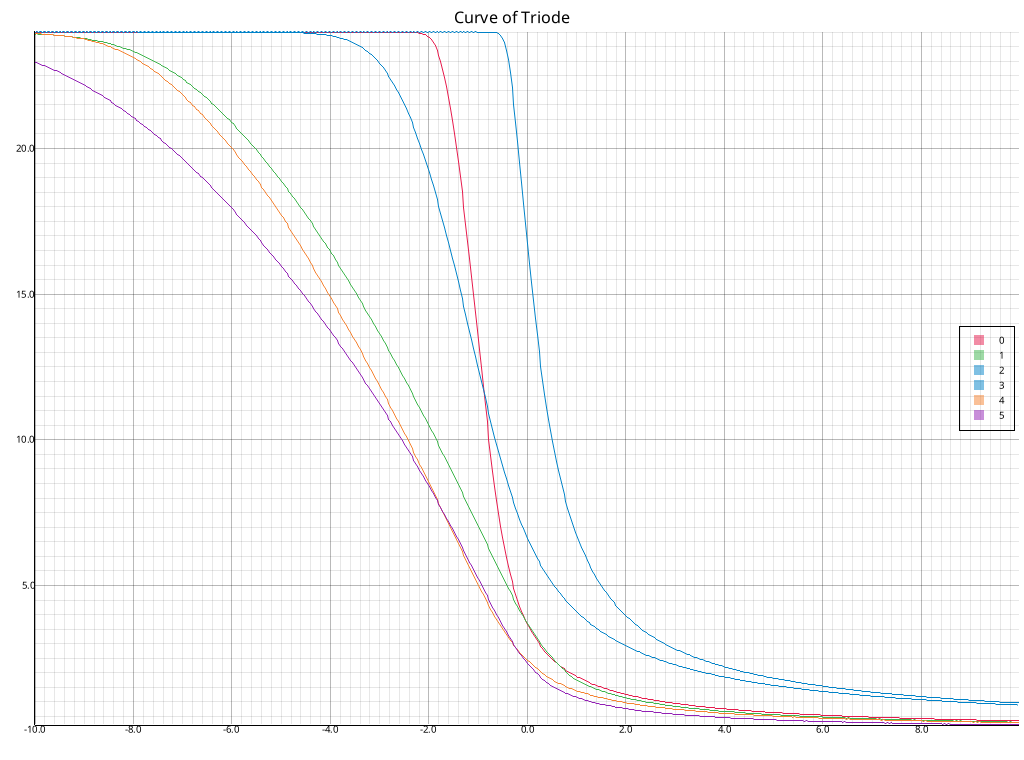
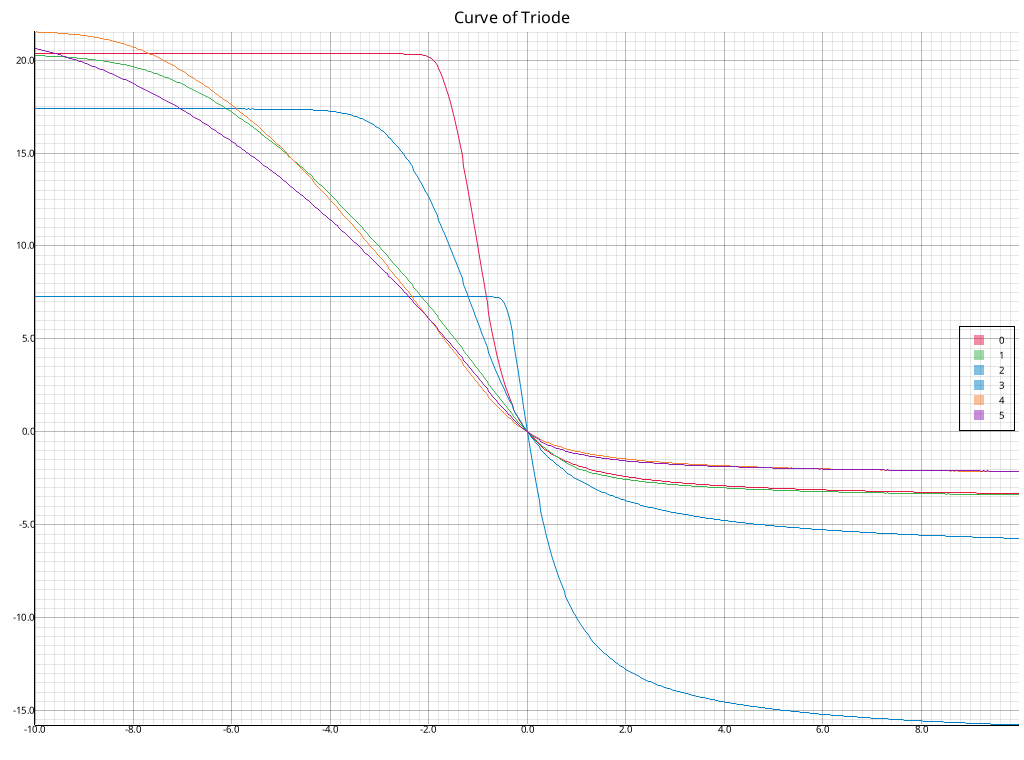
Remove DC component in pentode and triode

Changed region(s): [[0.0, 0.0303, 1.0, 0.9684]]

diff --git a/src/triode/mod.rs b/src/triode/mod.rs
@@ -21,6 +21,7 @@ where
     input_filter: FirstOrderRCFilter<LowPass, F>,
     output_filter: FirstOrderRCFilter<LowPass, F>,
     miller_effect: F,
+    offset: F,
     marker: PhantomData<M>
 }
 
@@ -33,13 +34,106 @@ where
     {
         let input_filter = FirstOrderRCFilter::new::<LowPass>(RC {r: param.r_i, c: f!(M::C_CG + M::C_PG)});
         let output_filter = FirstOrderRCFilter::new::<LowPass>(RC {r: param.r_p, c: f!(M::C_CP + M::C_PG)});
-        Self {
+        let mut this = Self {
             param,
             input_filter,
             output_filter,
             miller_effect: F::one(),
+            offset: F::zero(),
             marker: PhantomData
+        };
+        this.calibrate();
+        this
+    }
+
+    pub fn calibrate(&mut self)
+    {
+        self.offset = self.vp_a(-self.param.v_c).0;
+    }
+
+    fn vp_a(&self, vg: F) -> (F, F)
+    {
+        let TriodeClassA {r_i: _, r_p: rp, v_pp: vpp, v_c: _} = self.param;
+        let two_rp = rp + rp;
+        let one = F::one();
+        let zero = F::zero();
+
+        let mu_inv = f!(1.0/M::MU);
+        let mu = f!(M::MU);
+        let kp = f!(M::K_P);
+        let kvb = f!(M::K_VB);
+        let kg1 = f!(M::K_G1);
+        let ex = f!(M::EX);
+
+        let v1_max = (vpp*kg1/two_rp).powf(ex.recip());
+        
+        //let mut v1 = vp/kp*(kp*(mu_inv + vg/(kvb + vp*vp).sqrt())).exp().ln_1p();
+        //let mut vp = vpp - two_rp*v1.max(zero).powf(ex)/kg1;
+
+        //let mut vp = vpp - two_rp*(vp/kp*(kp*(mu_inv + vg/(kvb + vp*vp).sqrt())).exp().ln_1p()).max(zero).powf(ex)/kg1;
+
+        /*let mut vp = {
+            let v1 = crate::exp_ln_1p(vpp + vg*mu)/(mu + two_rp/kg1);
+            vpp - two_rp*v1.max(zero).powf(ex)/kg1
+        };*/
+
+        //let vp = (vpp - vg*rp/kg1)/(one + rp/mu/kg1);
+        //let mut v1 = vp/kp*(kp*(mu_inv + vg/(kvb + vp*vp).sqrt())).exp().ln_1p();
+        
+        let mut v1 = {
+            let mut vp = vpp/(one + rp/(mu*kg1));
+            vp = {
+                let b = crate::exp_ln_1p(kp*(mu_inv + vg/(kvb + vp*vp).sqrt()));
+                let v1 = vpp/(kp/b + two_rp/kg1);
+                vpp - two_rp*v1/kg1
+            };
+            let b = crate::exp_ln_1p(kp*(mu_inv + vg/(kvb + vp*vp).sqrt()));
+            vpp/(kp/b + two_rp/kg1)
+        };
+
+        const NEWTON: usize = 2;
+
+        for _ in 0..NEWTON
+        {
+            v1 = v1.max(zero).min(v1_max);
+            let vp = (vpp - two_rp/kg1*v1.powf(ex)).max(zero);
+            let dvp_dv1 = -two_rp/kg1*ex*v1.powf(ex - one);
+
+            let term = kvb + vp*vp;
+            let term_sqrt = term.sqrt();
+
+            let b = mu_inv + vg/term_sqrt;
+            let db_dv1 = -vg*vp*dvp_dv1/(term*term_sqrt);
+
+            let c = crate::exp_ln_1p(kp*b);
+            let dc_dv1_d_kp = (kp*b - c).exp()*db_dv1;
+            
+            let f = v1 - vp*c/kp;
+            let df_dv1 = one - dvp_dv1*c/kp - dc_dv1_d_kp*vp;
+
+            let delta = f/df_dv1;
+            v1 = v1 - delta;
         }
+
+        v1 = v1.max(zero).min(v1_max);
+        let vp = (vpp - two_rp*v1.powf(ex)/kg1).max(zero);
+        let dvp_dv1 = -two_rp*ex*v1.powf(ex - one)/kg1;
+
+        let term = kvb + vp*vp;
+        let term_sqrt = term.sqrt();
+
+        let b = mu_inv + vg/term_sqrt;
+        let db_dv1 = -vg*vp*dvp_dv1/(term*term_sqrt);
+
+        let c = crate::exp_ln_1p(kp*b);
+        let dc_dv1_d_kp = (kp*b - c).exp()*db_dv1;
+        
+        let df_dv1 = one - dvp_dv1*c/kp - dc_dv1_d_kp*vp;
+
+        let df_dvg = vp/term_sqrt/(one + (-kp*b).exp());
+        let dvp_dvg = df_dvg/df_dv1*dvp_dv1;
+
+        (vp, dvp_dvg)
     }
 
     pub fn saturate(&mut self, rate: F, x: F) -> F
@@ -52,93 +146,15 @@ where
         let zero = F::zero();
 
         let ri = self.param.r_i;
-        let rp = self.param.r_p;
-        let two_rp = rp + rp;
-        let vpp = self.param.v_pp;
         let rgi = f!(M::R_GI);
 
         self.input_filter.param.r = (f!(1.0/M::R_GI) + ri.recip()).recip();
 
         let vg = self.input_filter.filter(rate, x*rgi/(rgi + ri) - self.param.v_c);
 
-        let (vp, a) = {
-            let mu_inv = f!(1.0/M::MU);
-            let mu = f!(M::MU);
-            let kp = f!(M::K_P);
-            let kvb = f!(M::K_VB);
-            let kg1 = f!(M::K_G1);
-            let ex = f!(M::EX);
+        let (vp, a) = self.vp_a(vg);
 
-            let v1_max = (vpp*kg1/two_rp).powf(ex.recip());
-            
-            //let mut v1 = vp/kp*(kp*(mu_inv + vg/(kvb + vp*vp).sqrt())).exp().ln_1p();
-            //let mut vp = vpp - two_rp*v1.max(zero).powf(ex)/kg1;
-
-            //let mut vp = vpp - two_rp*(vp/kp*(kp*(mu_inv + vg/(kvb + vp*vp).sqrt())).exp().ln_1p()).max(zero).powf(ex)/kg1;
-
-            /*let mut vp = {
-                let v1 = crate::exp_ln_1p(vpp + vg*mu)/(mu + two_rp/kg1);
-                vpp - two_rp*v1.max(zero).powf(ex)/kg1
-            };*/
-
-            //let vp = (vpp - vg*rp/kg1)/(one + rp/mu/kg1);
-            //let mut v1 = vp/kp*(kp*(mu_inv + vg/(kvb + vp*vp).sqrt())).exp().ln_1p();
-            
-            let mut v1 = {
-                let mut vp = vpp/(one + rp/(mu*kg1));
-                vp = {
-                    let b = crate::exp_ln_1p(kp*(mu_inv + vg/(kvb + vp*vp).sqrt()));
-                    let v1 = vpp/(kp/b + two_rp/kg1);
-                    vpp - two_rp*v1/kg1
-                };
-                let b = crate::exp_ln_1p(kp*(mu_inv + vg/(kvb + vp*vp).sqrt()));
-                vpp/(kp/b + two_rp/kg1)
-            };
-
-            const NEWTON: usize = 2;
-
-            for _ in 0..NEWTON
-            {
-                v1 = v1.max(zero).min(v1_max);
-                let vp = (vpp - two_rp/kg1*v1.powf(ex)).max(zero);
-                let dvp_dv1 = -two_rp/kg1*ex*v1.powf(ex - one);
-
-                let term = kvb + vp*vp;
-                let term_sqrt = term.sqrt();
-
-                let b = mu_inv + vg/term_sqrt;
-                let db_dv1 = -vg*vp*dvp_dv1/(term*term_sqrt);
-
-                let c = crate::exp_ln_1p(kp*b);
-                let dc_dv1_d_kp = (kp*b - c).exp()*db_dv1;
-                
-                let f = v1 - vp*c/kp;
-                let df_dv1 = one - dvp_dv1*c/kp - dc_dv1_d_kp*vp;
-
-                let delta = f/df_dv1;
-                v1 = v1 - delta;
-            }
-
-            v1 = v1.max(zero).min(v1_max);
-            let vp = (vpp - two_rp*v1.powf(ex)/kg1).max(zero);
-            let dvp_dv1 = -two_rp*ex*v1.powf(ex - one)/kg1;
-
-            let term = kvb + vp*vp;
-            let term_sqrt = term.sqrt();
-
-            let b = mu_inv + vg/term_sqrt;
-            let db_dv1 = -vg*vp*dvp_dv1/(term*term_sqrt);
-
-            let c = crate::exp_ln_1p(kp*b);
-            let dc_dv1_d_kp = (kp*b - c).exp()*db_dv1;
-            
-            let df_dv1 = one - dvp_dv1*c/kp - dc_dv1_d_kp*vp;
-
-            let df_dvg = vp/term_sqrt/(one + (-kp*b).exp());
-            let dvp_dvg = df_dvg/df_dv1*dvp_dv1;
-
-            (vp, dvp_dvg)
-        };
+        let y = vp - self.offset;
 
         self.miller_effect = one + a.max(zero);
         let change = crate::change(rate);
@@ -146,7 +162,7 @@ where
         self.output_filter.param.c.change(f!(M::C_CP) + f!(M::C_PG)*self.miller_effect, change);
         self.input_filter.param.c.change(f!(M::C_CG) + f!(M::C_PG)/self.miller_effect, change);
 
-        self.output_filter.filter(rate, vp)
+        self.output_filter.filter(rate, y)
     }
 
     pub fn miller_effect(&self) -> F

diff --git a/src/pentode/mod.rs b/src/pentode/mod.rs
@@ -21,6 +21,7 @@ where
     input_filter: FirstOrderRCFilter<LowPass, F>,
     output_filter: FirstOrderRCFilter<LowPass, F>,
     miller_effect: F,
+    offset: F,
     marker: PhantomData<M>
 }
 
@@ -33,34 +34,29 @@ where
     {
         let input_filter = FirstOrderRCFilter::new::<LowPass>(RC {r: param.r_i, c: f!(M::C_CG + M::C_PG)});
         let output_filter = FirstOrderRCFilter::new::<LowPass>(RC {r: param.r_p, c: f!(M::C_CP + M::C_PG)});
-        Self {
+        let mut pentode = Self {
             param,
             input_filter,
             output_filter,
             miller_effect: F::one(),
+            offset: F::zero(),
             marker: PhantomData
-        }
+        };
+        pentode.calibrate();
+        pentode
     }
 
-    pub fn saturate(&mut self, rate: F, x: F) -> F
-    where
-        FirstOrderRCFilter<LowPass, F>: Rtf1<F = F>
+    pub fn calibrate(&mut self)
     {
-        // Math: https://www.normankoren.com/Audio/Tubemodspice_article.html
+        self.offset = self.vp_a(F::zero()).0;
+    }
 
+    fn vp_a(&self, vg: F) -> (F, F)
+    {
+        let PentodeClassA {r_i: _, r_p: rp, v_g2: vg2, v_pp: vpp, v_c: _} = self.param;
+        let two_rp = rp + rp;
         let one = F::one();
         let zero = F::zero();
-
-        let ri = self.param.r_i;
-        let rp = self.param.r_p;
-        let two_rp = rp + rp;
-        let vg2 = self.param.v_g2;
-        let vpp = self.param.v_pp;
-        let rgi = f!(M::R_GI);
-
-        self.input_filter.param.r = (f!(1.0/M::R_GI) + ri.recip()).recip();
-
-        let vg = self.input_filter.filter(rate, x*rgi/(rgi + ri) - self.param.v_c);
 
         let mu_inv = f!(1.0/M::MU);
         let kp = f!(M::K_P);
@@ -73,7 +69,7 @@ where
         
         let v1 = vg2_d_kp*crate::exp_ln_1p(c);
 
-        let (vp, a) = if v1.is_sign_positive()
+        if v1.is_sign_positive()
         {
             let rp_inv = two_rp.recip();
             let vpp_d_rp = vpp/two_rp;
@@ -114,7 +110,28 @@ where
         else
         {
             (vpp, zero)
-        };
+        }
+    }
+
+    pub fn saturate(&mut self, rate: F, x: F) -> F
+    where
+        FirstOrderRCFilter<LowPass, F>: Rtf1<F = F>
+    {
+        // Math: https://www.normankoren.com/Audio/Tubemodspice_article.html
+
+        let one = F::one();
+        let zero = F::zero();
+
+        let ri = self.param.r_i;
+        let rgi = f!(M::R_GI);
+
+        self.input_filter.param.r = (f!(1.0/M::R_GI) + ri.recip()).recip();
+
+        let vg = self.input_filter.filter(rate, x*rgi/(rgi + ri) - self.param.v_c);
+
+        let (vp, a) = self.vp_a(vg);
+
+        let y = vp - self.offset;
 
         self.miller_effect = one + a.max(zero);
         let change = crate::change(rate);
@@ -122,7 +139,7 @@ where
         self.output_filter.param.c.change(f!(M::C_CP) + f!(M::C_PG)*self.miller_effect, change);
         self.input_filter.param.c.change(f!(M::C_CG) + f!(M::C_PG)/self.miller_effect, change);
 
-        self.output_filter.filter(rate, vp)
+        self.output_filter.filter(rate, y)
     }
 
     pub fn miller_effect(&self) -> F
